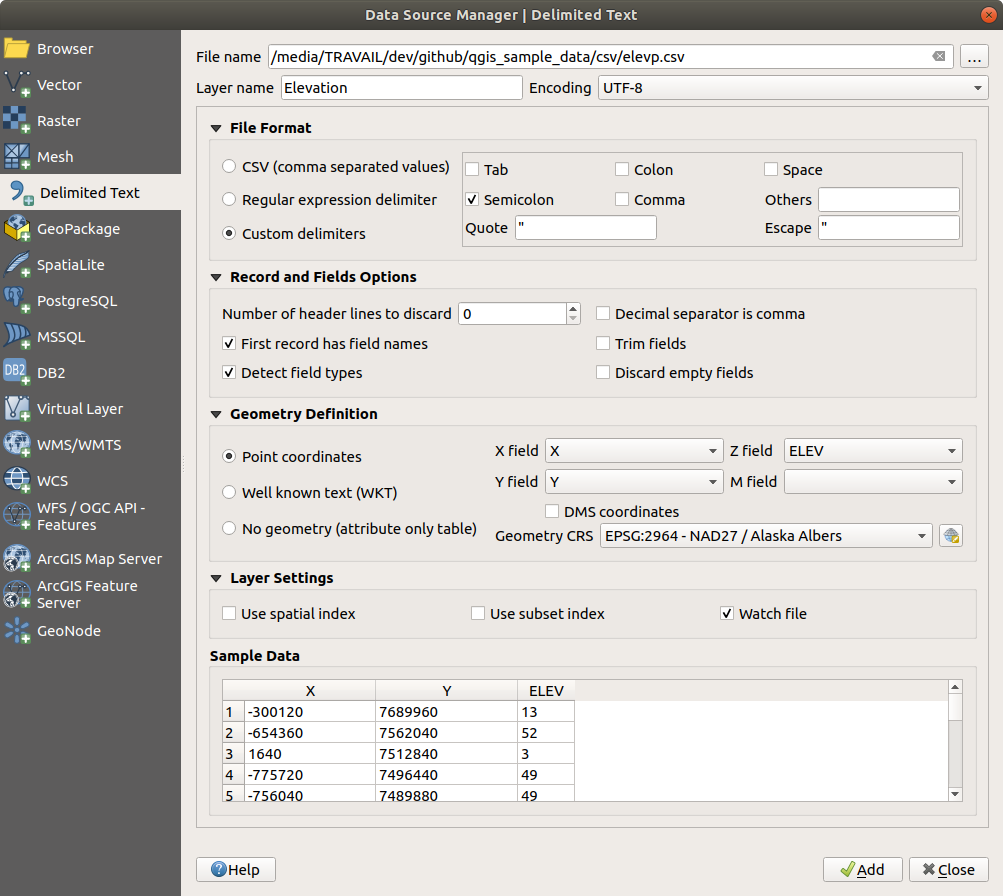
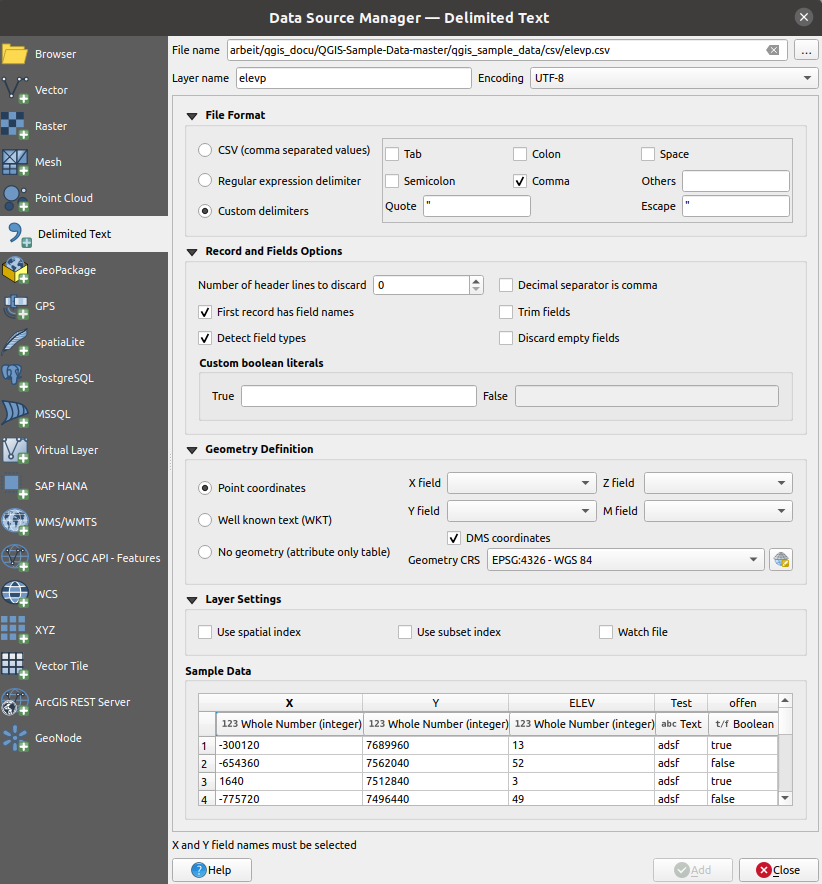
Delimited text type updates
fixes #7142

Changed region(s): [[0.0, 0.0, 1.0, 1.0], [0.4866, 0.6719, 0.6083, 0.733], [0.6995, 0.6719, 0.8212, 0.733]]

diff --git a/docs/user_manual/managing_data_source/supported_data.rst b/docs/user_manual/managing_data_source/supported_data.rst
@@ -184,8 +184,10 @@ First check that the file meets the following requirements:
 #. The X and Y coordinates fields (if geometry is defined by 
    coordinates) must be specified as numbers.
    The coordinate system is not important.
-#. If you have a CSV file with non-string columns, you must have an
-   accompanying CSVT file (see section :ref:`csvt_files`).
+#. If you have a CSV file with non-string columns, you can have an
+   accompanying CSVT file (see section :ref:`csvt_files`), use the
+   automatic field type detection or select the field types yourself
+   in the sample data table.
 
 The elevation point data file :file:`elevp.csv` in the QGIS sample
 dataset (see section :ref:`label_sampledata`) is an example of a
@@ -254,10 +256,16 @@ different columns:
     :header: "Type", "Name", "Example"
 
     "Whole number", "Integer", 4
+    "Boolean", "Integer(Boolean)", true
     "Decimal number", "Real", 3.456
     "Date", "Date (YYYY-MM-DD)", 2016-07-28
     "Time", "Time (HH:MM:SS+nn)", 18:33:12+00
     "Date & Time", "DateTime (YYYY-MM-DD HH:MM:SS+nn)", 2016-07-28 18:33:12+00
+    "CoordX", "CoordX", 8.8249
+    "CoordY", "CoordY", 47.2274
+    "Point(X)", "Point(X)", 8.8249
+    "Point(Y)", "Point(Y)", 47.2274
+    "WKT", "WKT", POINT(15 20)
 
 The CSVT file is a **ONE line** plain text file with the data types in
 quotes and separated by commas, e.g.::
@@ -273,6 +281,14 @@ the same name, but :file:`.csvt` as the extension.
 
 *You can find more information at*
 `GDAL CSV Driver <https://gdal.org/drivers/vector/csv.html>`_.
+
+.. _tip_detect_field_types:
+
+.. tip:: **Detect Field Types**
+
+   Instead of using a CSVT file to tell the data types, QGIS provides the
+   possibility to automatically detect the field types and to change the
+   assumed field types.
 
 
 .. index:: PostGIS, PostgreSQL

diff --git a/docs/user_manual/managing_data_source/opening_data.rst b/docs/user_manual/managing_data_source/opening_data.rst
@@ -547,6 +547,8 @@ Some other convenient options can be used for data recognition:
 * |checkbox|:guilabel:`Trim fields`: allows you to trim leading and trailing
   spaces from fields.
 * |checkbox|:guilabel:`Discard empty fields`.
+* :guilabel:`Custom boolean literals`: allows you to add a custom couple of
+  string representations for True/False.
 
 As you set the parser properties, a sample data preview updates at the bottom
 of the dialog.
@@ -592,6 +594,15 @@ and behaves like any other map layer in QGIS.
 This layer is the result of a query on the :file:`.csv` source file
 (hence, linked to it) and would require
 :ref:`to be saved <general_saveas>` in order to get a spatial layer on disk.
+
+Sample Data
+...........
+
+As you set the parser properties, the sample data preview updates regarding to
+the applied settings.
+
+Also in the Sample Data Table it is possible to override the automatically
+determined column types.
 
 
 .. _import_dxfdwg:
